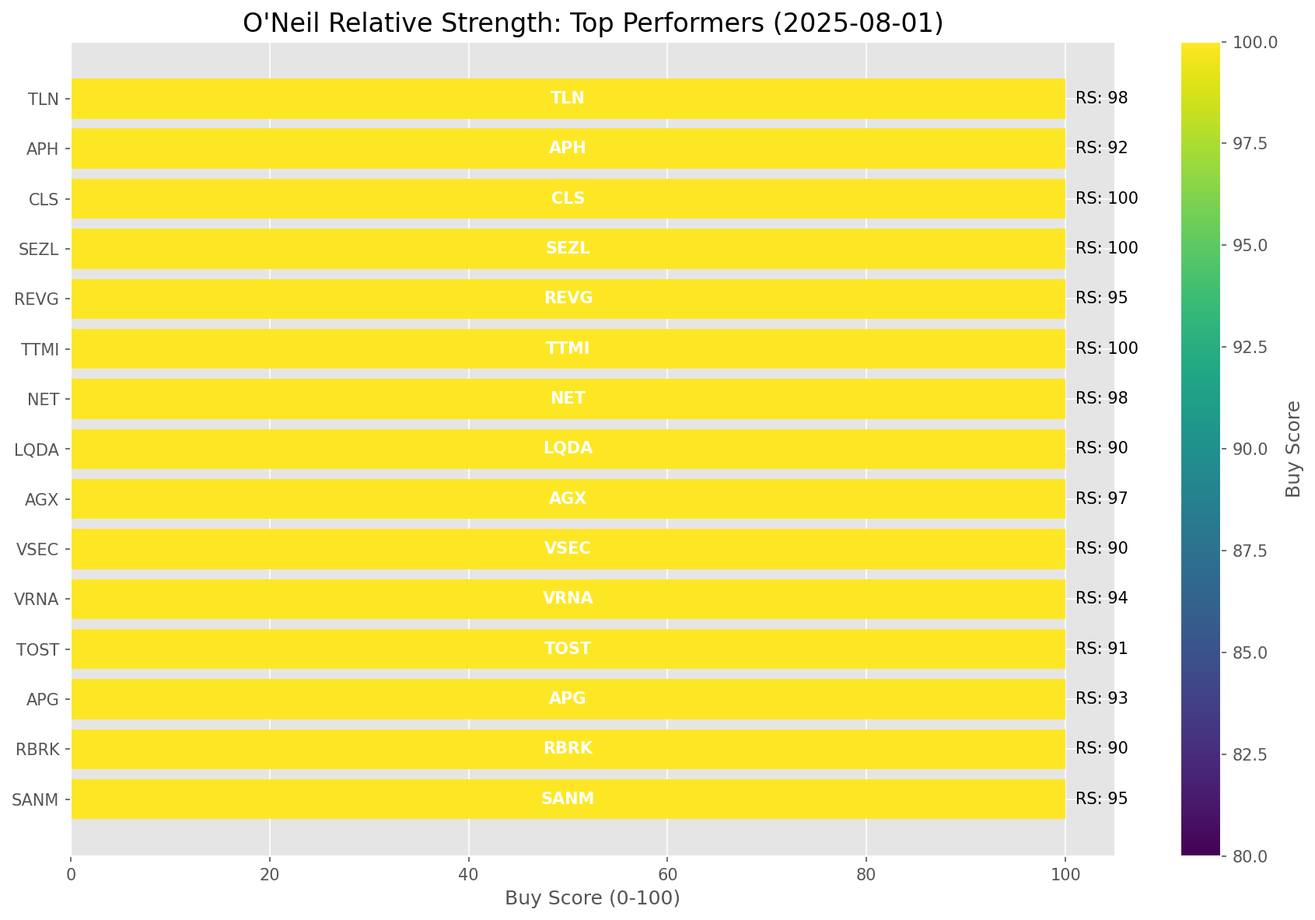
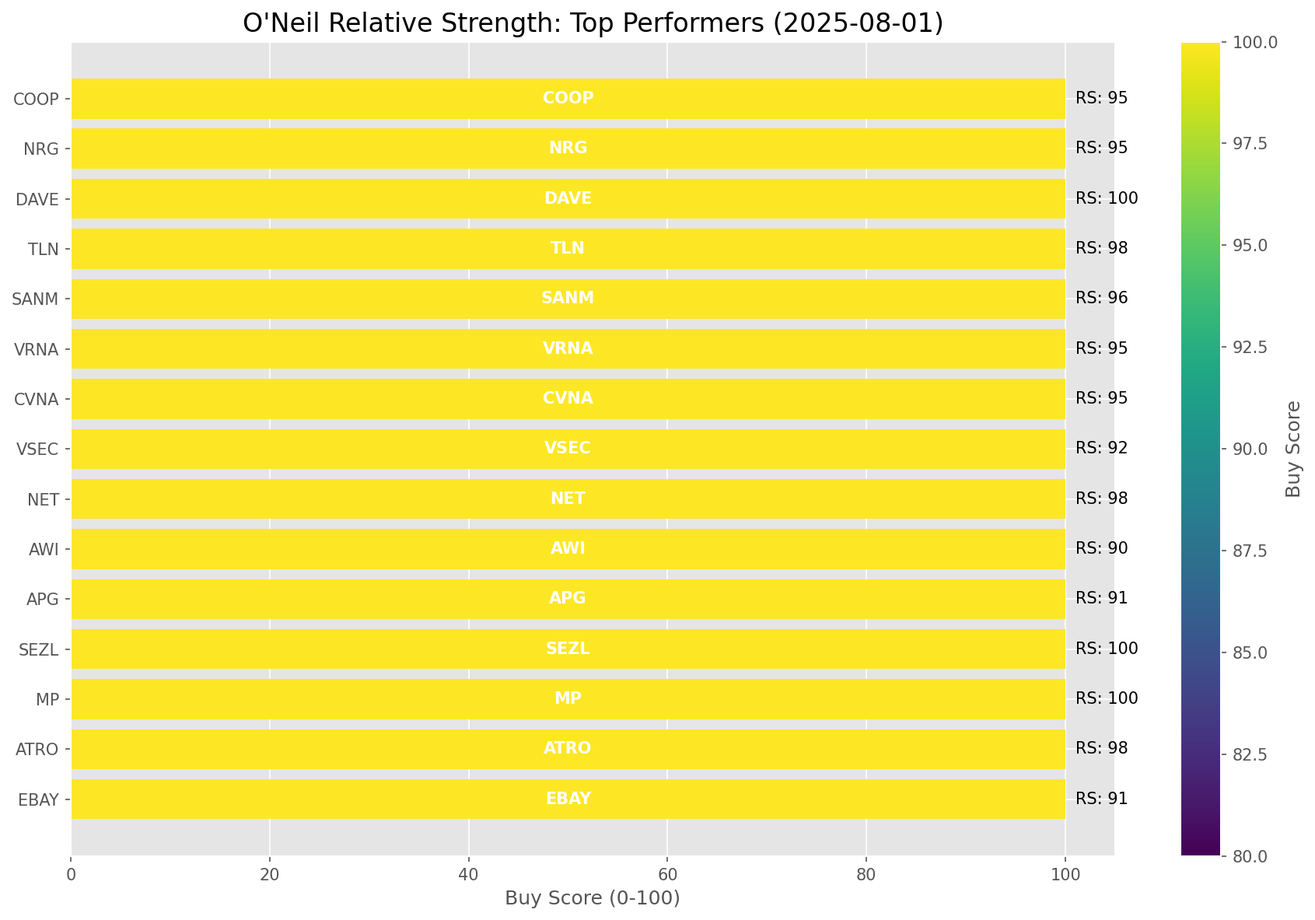
Add market report for 2025-08-01

diff --git a/oneil_relative_strength_report_2025-08-01.md b/oneil_relative_strength_report_2025-08-01.md
@@ -9,11 +9,11 @@
 | Metric | Value |
 |--------|-------|
 | **Market Valuation** | **Overvalued** |
-| **Current Ratio** | 10.25 |
-| **Historical Mean** | 9.52 |
-| **Standard Deviation** | 0.60 |
-| **Z-Score (StdDev from Mean)** | 1.29 |
-| **Total Market Cap** | $310.89 trillion |
+| **Current Ratio** | 10.09 |
+| **Historical Mean** | 9.55 |
+| **Standard Deviation** | 0.59 |
+| **Z-Score (StdDev from Mean)** | 1.20 |
+| **Total Market Cap** | $306.10 trillion |
 | **GDP** | $30.33 trillion |
 
 ## **Market Insights**
@@ -49,41 +49,41 @@ Based on William O'Neil's Relative Strength Methodology
 
 | ETF | Strength | RS Rating | Performance | Above Key MAs | Trend | Sector |
 |-----|----------|-----------|-------------|--------------|-------|--------|
-| [ARKW](https://www.tradingview.com/chart/?symbol=ARKW) | 98.0 | 96.0 | 53.50% | 10d ✓, 50d ✓, 200d ✓ | ↗ | Next Generation Internet |
-| [XLK](https://www.tradingview.com/chart/?symbol=XLK) | 91.5 | 83.0 | 25.13% | 10d ✓, 50d ✓, 200d ✓ | ↗ | Technology |
-| [URA](https://www.tradingview.com/chart/?symbol=URA) | 88.1 | 96.0 | 57.44% | 10d ✗, 50d ✓, 200d ✓ | ↗ | Uranium |
-| [ARKK](https://www.tradingview.com/chart/?symbol=ARKK) | 87.6 | 95.0 | 48.17% | 10d ✗, 50d ✓, 200d ✓ | ↗ | Innovation |
-| [BLOK](https://www.tradingview.com/chart/?symbol=BLOK) | 87.6 | 95.0 | 46.99% | 10d ✗, 50d ✓, 200d ✓ | ↗ | Blockchain & Cryptocurrency |
-| [ARKF](https://www.tradingview.com/chart/?symbol=ARKF) | 87.6 | 95.0 | 48.81% | 10d ✗, 50d ✓, 200d ✓ | ↗ | Fintech Innovation |
-| [XLC](https://www.tradingview.com/chart/?symbol=XLC) | 82.5 | 65.0 | 12.54% | 10d ✓, 50d ✓, 200d ✓ | ↗ | Communications |
-| [JETS](https://www.tradingview.com/chart/?symbol=JETS) | 79.6 | 79.0 | 20.84% | 10d ✗, 50d ✓, 200d ✓ | ↗ | Airlines |
-| [AIQ](https://www.tradingview.com/chart/?symbol=AIQ) | 79.6 | 79.0 | 20.88% | 10d ✗, 50d ✓, 200d ✓ | ↗ | Artificial Intelligence & Technology |
-| [PAVE](https://www.tradingview.com/chart/?symbol=PAVE) | 78.1 | 76.0 | 19.05% | 10d ✗, 50d ✓, 200d ✓ | ↗ | Infrastructure |
-| [XLU](https://www.tradingview.com/chart/?symbol=XLU) | 78.0 | 56.0 | 8.58% | 10d ✓, 50d ✓, 200d ✓ | ↗ | Utilities |
-| [XLI](https://www.tradingview.com/chart/?symbol=XLI) | 75.6 | 71.0 | 15.84% | 10d ✗, 50d ✓, 200d ✓ | ↗ | Industrial |
-| [SLV](https://www.tradingview.com/chart/?symbol=SLV) | 73.1 | 66.0 | 12.57% | 10d ✗, 50d ✓, 200d ✓ | ↗ | Silver |
-| [XLY](https://www.tradingview.com/chart/?symbol=XLY) | 72.6 | 65.0 | 12.25% | 10d ✗, 50d ✓, 200d ✓ | ↗ | Consumer Discretionary |
-| [IYZ](https://www.tradingview.com/chart/?symbol=IYZ) | 70.6 | 61.0 | 10.76% | 10d ✗, 50d ✓, 200d ✓ | ↗ | Telecommunications |
-| [KWEB](https://www.tradingview.com/chart/?symbol=KWEB) | 70.1 | 60.0 | 10.40% | 10d ✗, 50d ✓, 200d ✓ | ↗ | Chinese Internet |
-| [XLF](https://www.tradingview.com/chart/?symbol=XLF) | 66.1 | 52.0 | 7.40% | 10d ✗, 50d ✓, 200d ✓ | ↗ | Financial |
-| [SOXX](https://www.tradingview.com/chart/?symbol=SOXX) | 64.1 | 88.0 | 30.56% | 10d ✗, 50d ✓, 200d ✓ | ↘ | Semiconductors |
-| [CIBR](https://www.tradingview.com/chart/?symbol=CIBR) | 58.7 | 57.0 | 9.24% | 10d ✗, 50d ✗, 200d ✓ | ↗ | Cybersecurity |
-| [ICLN](https://www.tradingview.com/chart/?symbol=ICLN) | 54.1 | 68.0 | 13.93% | 10d ✗, 50d ✓, 200d ✓ | ↘ | Clean Energy |
-| [DBC](https://www.tradingview.com/chart/?symbol=DBC) | 48.6 | 57.0 | 9.14% | 10d ✗, 50d ✓, 200d ✓ | ↘ | Commodities |
-| [XLE](https://www.tradingview.com/chart/?symbol=XLE) | 47.3 | 55.0 | 8.34% | 10d ✓, 50d ✓, 200d ✗ | ↘ | Energy |
-| [BIL](https://www.tradingview.com/chart/?symbol=BIL) | 45.5 | 31.0 | 0.03% | 10d ✓, 50d ✓, 200d ✓ | ↘ | Short-term Treasuries |
-| [GLD](https://www.tradingview.com/chart/?symbol=GLD) | 44.7 | 29.0 | -0.27% | 10d ✗, 50d ✗, 200d ✓ | ↗ | Gold |
-| [IBB](https://www.tradingview.com/chart/?symbol=IBB) | 43.1 | 46.0 | 4.88% | 10d ✗, 50d ✓, 200d ✓ | ↘ | Biotechnology |
-| [UUP](https://www.tradingview.com/chart/?symbol=UUP) | 38.3 | 37.0 | 1.79% | 10d ✓, 50d ✓, 200d ✗ | ↘ | U.S. Dollar |
-| [ITB](https://www.tradingview.com/chart/?symbol=ITB) | 33.9 | 48.0 | 5.78% | 10d ✗, 50d ✓, 200d ✗ | ↘ | Home Construction |
-| [IYT](https://www.tradingview.com/chart/?symbol=IYT) | 32.0 | 64.0 | 11.79% | 10d ✗, 50d ✗, 200d ✗ | ↘ | Transportation |
-| [TLT](https://www.tradingview.com/chart/?symbol=TLT) | 30.3 | 21.0 | -2.85% | 10d ✓, 50d ✓, 200d ✗ | ↘ | Long-term Treasuries |
-| [DBA](https://www.tradingview.com/chart/?symbol=DBA) | 28.5 | 17.0 | -5.09% | 10d ✗, 50d ✗, 200d ✗ | ↗ | Agriculture |
-| [ARKG](https://www.tradingview.com/chart/?symbol=ARKG) | 27.5 | 55.0 | 8.32% | 10d ✗, 50d ✗, 200d ✗ | ↘ | Genomics |
-| [XLB](https://www.tradingview.com/chart/?symbol=XLB) | 22.5 | 45.0 | 4.58% | 10d ✗, 50d ✗, 200d ✗ | ↘ | Materials |
-| [IYR](https://www.tradingview.com/chart/?symbol=IYR) | 18.0 | 36.0 | 1.27% | 10d ✗, 50d ✗, 200d ✗ | ↘ | Real Estate |
-| [XLP](https://www.tradingview.com/chart/?symbol=XLP) | 11.0 | 22.0 | -2.51% | 10d ✗, 50d ✗, 200d ✗ | ↘ | Consumer Staples |
-| [XLV](https://www.tradingview.com/chart/?symbol=XLV) | 7.0 | 14.0 | -7.15% | 10d ✗, 50d ✗, 200d ✗ | ↘ | Healthcare |
+| [URA](https://www.tradingview.com/chart/?symbol=URA) | 88.1 | 96.0 | 49.51% | 10d ✗, 50d ✓, 200d ✓ | ↗ | Uranium |
+| [ARKW](https://www.tradingview.com/chart/?symbol=ARKW) | 87.6 | 95.0 | 45.55% | 10d ✗, 50d ✓, 200d ✓ | ↗ | Next Generation Internet |
+| [ARKF](https://www.tradingview.com/chart/?symbol=ARKF) | 87.1 | 94.0 | 41.36% | 10d ✗, 50d ✓, 200d ✓ | ↗ | Fintech Innovation |
+| [ARKK](https://www.tradingview.com/chart/?symbol=ARKK) | 87.1 | 94.0 | 40.75% | 10d ✗, 50d ✓, 200d ✓ | ↗ | Innovation |
+| [BLOK](https://www.tradingview.com/chart/?symbol=BLOK) | 86.6 | 93.0 | 37.84% | 10d ✗, 50d ✓, 200d ✓ | ↗ | Blockchain & Cryptocurrency |
+| [XLK](https://www.tradingview.com/chart/?symbol=XLK) | 80.6 | 81.0 | 20.81% | 10d ✗, 50d ✓, 200d ✓ | ↗ | Technology |
+| [XLU](https://www.tradingview.com/chart/?symbol=XLU) | 78.5 | 57.0 | 7.91% | 10d ✓, 50d ✓, 200d ✓ | ↗ | Utilities |
+| [AIQ](https://www.tradingview.com/chart/?symbol=AIQ) | 78.1 | 76.0 | 17.03% | 10d ✗, 50d ✓, 200d ✓ | ↗ | Artificial Intelligence & Technology |
+| [PAVE](https://www.tradingview.com/chart/?symbol=PAVE) | 76.6 | 73.0 | 14.86% | 10d ✗, 50d ✓, 200d ✓ | ↗ | Infrastructure |
+| [SLV](https://www.tradingview.com/chart/?symbol=SLV) | 75.6 | 71.0 | 14.32% | 10d ✗, 50d ✓, 200d ✓ | ↗ | Silver |
+| [XLI](https://www.tradingview.com/chart/?symbol=XLI) | 74.1 | 68.0 | 12.68% | 10d ✗, 50d ✓, 200d ✓ | ↗ | Industrial |
+| [GLD](https://www.tradingview.com/chart/?symbol=GLD) | 72.5 | 45.0 | 3.67% | 10d ✓, 50d ✓, 200d ✓ | ↗ | Gold |
+| [XLC](https://www.tradingview.com/chart/?symbol=XLC) | 72.1 | 64.0 | 10.59% | 10d ✗, 50d ✓, 200d ✓ | ↗ | Communications |
+| [IYZ](https://www.tradingview.com/chart/?symbol=IYZ) | 69.6 | 59.0 | 8.46% | 10d ✗, 50d ✓, 200d ✓ | ↗ | Telecommunications |
+| [SOXX](https://www.tradingview.com/chart/?symbol=SOXX) | 64.1 | 88.0 | 27.76% | 10d ✗, 50d ✓, 200d ✓ | ↘ | Semiconductors |
+| [XLY](https://www.tradingview.com/chart/?symbol=XLY) | 60.2 | 60.0 | 9.06% | 10d ✗, 50d ✗, 200d ✓ | ↗ | Consumer Discretionary |
+| [KWEB](https://www.tradingview.com/chart/?symbol=KWEB) | 57.2 | 54.0 | 7.06% | 10d ✗, 50d ✗, 200d ✓ | ↗ | Chinese Internet |
+| [CIBR](https://www.tradingview.com/chart/?symbol=CIBR) | 57.2 | 54.0 | 6.87% | 10d ✗, 50d ✗, 200d ✓ | ↗ | Cybersecurity |
+| [JETS](https://www.tradingview.com/chart/?symbol=JETS) | 57.0 | 74.0 | 15.75% | 10d ✗, 50d ✗, 200d ✗ | ↗ | Airlines |
+| [ICLN](https://www.tradingview.com/chart/?symbol=ICLN) | 56.6 | 73.0 | 15.33% | 10d ✗, 50d ✓, 200d ✓ | ↘ | Clean Energy |
+| [XLF](https://www.tradingview.com/chart/?symbol=XLF) | 54.7 | 49.0 | 5.14% | 10d ✗, 50d ✗, 200d ✓ | ↗ | Financial |
+| [DBC](https://www.tradingview.com/chart/?symbol=DBC) | 47.6 | 55.0 | 7.45% | 10d ✗, 50d ✓, 200d ✓ | ↘ | Commodities |
+| [ITB](https://www.tradingview.com/chart/?symbol=ITB) | 38.4 | 57.0 | 8.05% | 10d ✗, 50d ✓, 200d ✗ | ↘ | Home Construction |
+| [IBB](https://www.tradingview.com/chart/?symbol=IBB) | 34.9 | 50.0 | 5.28% | 10d ✗, 50d ✓, 200d ✗ | ↘ | Biotechnology |
+| [UUP](https://www.tradingview.com/chart/?symbol=UUP) | 34.8 | 30.0 | 0.04% | 10d ✓, 50d ✓, 200d ✗ | ↘ | U.S. Dollar |
+| [TLT](https://www.tradingview.com/chart/?symbol=TLT) | 32.8 | 26.0 | -0.99% | 10d ✓, 50d ✓, 200d ✗ | ↘ | Long-term Treasuries |
+| [IYT](https://www.tradingview.com/chart/?symbol=IYT) | 30.5 | 61.0 | 9.58% | 10d ✗, 50d ✗, 200d ✗ | ↘ | Transportation |
+| [DBA](https://www.tradingview.com/chart/?symbol=DBA) | 29.0 | 18.0 | -5.09% | 10d ✗, 50d ✗, 200d ✗ | ↗ | Agriculture |
+| [ARKG](https://www.tradingview.com/chart/?symbol=ARKG) | 28.0 | 56.0 | 7.63% | 10d ✗, 50d ✗, 200d ✗ | ↘ | Genomics |
+| [XLE](https://www.tradingview.com/chart/?symbol=XLE) | 25.5 | 51.0 | 5.99% | 10d ✗, 50d ✗, 200d ✗ | ↘ | Energy |
+| [XLB](https://www.tradingview.com/chart/?symbol=XLB) | 22.0 | 44.0 | 3.33% | 10d ✗, 50d ✗, 200d ✗ | ↘ | Materials |
+| [IYR](https://www.tradingview.com/chart/?symbol=IYR) | 18.0 | 36.0 | 1.08% | 10d ✗, 50d ✗, 200d ✗ | ↘ | Real Estate |
+| [BIL](https://www.tradingview.com/chart/?symbol=BIL) | 15.0 | 30.0 | 0.04% | 10d ✗, 50d ✗, 200d ✗ | ↘ | Short-term Treasuries |
+| [XLP](https://www.tradingview.com/chart/?symbol=XLP) | 13.0 | 26.0 | -1.11% | 10d ✗, 50d ✗, 200d ✗ | ↘ | Consumer Staples |
+| [XLV](https://www.tradingview.com/chart/?symbol=XLV) | 9.5 | 19.0 | -4.62% | 10d ✗, 50d ✗, 200d ✗ | ↘ | Healthcare |
 
 ### **Sector ETF Performance Interpretation**
 
@@ -98,157 +98,169 @@ This table shows the relative strength metrics for different market sectors base
 
 ### **Current Sector Leadership**
 
-The current market leadership is coming from the following sectors: **Next Generation Internet, Technology, Uranium**.
+The current market leadership is coming from the following sectors: **Uranium, Next Generation Internet, Fintech Innovation**.
 
-The **Next Generation Internet** sector (represented by **ARKW**) is showing particularly strong relative strength with an RS rating of 96.0 and performance of 53.50% vs. the S&P 500. This sector is trading above its 10-day, 50-day, 200-day moving average(s). Investors should consider focusing on high RS stocks within these leading sectors for potential outperformance.
+The **Uranium** sector (represented by **URA**) is showing particularly strong relative strength with an RS rating of 96.0 and performance of 49.51% vs. the S&P 500. This sector is trading above its 50-day, 200-day moving average(s). Investors should consider focusing on high RS stocks within these leading sectors for potential outperformance.
 
 ---
 
 ## **Buy Recommendations**
 
-The following 55 stocks show exceptional relative strength:
+The following 37 stocks show exceptional relative strength:
 
 | RS Rating | Buy Score | Current Price | Chart | Name | Ticker |
 |-----------|-----------|---------------|-------|------|--------|
-| 100 | 100 | $47.25 | [Chart](https://www.tradingview.com/chart/?symbol=TTMI) | TTM Technologies Inc | TTMI |
-| 100 | 100 | $154.84 | [Chart](https://www.tradingview.com/chart/?symbol=SEZL) | Sezzle Inc. Common Stock | SEZL |
-| 100 | 100 | $199.86 | [Chart](https://www.tradingview.com/chart/?symbol=CLS) | Celestica, Inc. | CLS |
-| 100 | 100 | $61.50 | [Chart](https://www.tradingview.com/chart/?symbol=MP) | MP Materials Corp. | MP |
-| 100 | 100 | $235.80 | [Chart](https://www.tradingview.com/chart/?symbol=DAVE) | Dave Inc. Class A Common Stock | DAVE |
-| 99 | 100 | $137.79 | [Chart](https://www.tradingview.com/chart/?symbol=RBLX) | Roblox Corporation | RBLX |
-| 99 | 100 | $66.18 | [Chart](https://www.tradingview.com/chart/?symbol=HIMS) | Hims & Hers Health, Inc. | HIMS |
-| 98 | 100 | $207.68 | [Chart](https://www.tradingview.com/chart/?symbol=NET) | Cloudflare, Inc. Class A common stock, par value $0.001 per share | NET |
-| 98 | 100 | $377.57 | [Chart](https://www.tradingview.com/chart/?symbol=TLN) | Talen Energy Corporation Common Stock | TLN |
-| 98 | 100 | $76.59 | [Chart](https://www.tradingview.com/chart/?symbol=LIF) | Life360, Inc. Common Stock | LIF |
-| 98 | 100 | $58.70 | [Chart](https://www.tradingview.com/chart/?symbol=KTOS) | Kratos Defense & Security Solutions, Inc. | KTOS |
-| 98 | 100 | $660.29 | [Chart](https://www.tradingview.com/chart/?symbol=GEV) | GE Vernova Inc. | GEV |
-| 97 | 100 | $244.98 | [Chart](https://www.tradingview.com/chart/?symbol=AGX) | Argan, Inc | AGX |
-| 97 | 100 | $390.17 | [Chart](https://www.tradingview.com/chart/?symbol=CVNA) | Carvana Co. | CVNA |
-| 97 | 100 | $36.12 | [Chart](https://www.tradingview.com/chart/?symbol=ATRO) | Astronics Corp | ATRO |
-| 97 | 100 | $24.10 | [Chart](https://www.tradingview.com/chart/?symbol=CPS) | Cooper-Standard Automotive Inc. | CPS |
-| 96 | 100 | $167.20 | [Chart](https://www.tradingview.com/chart/?symbol=NRG) | NRG Energy, Inc. | NRG |
-| 96 | 100 | $65.56 | [Chart](https://www.tradingview.com/chart/?symbol=IBKR) | Interactive Brokers Group, Inc. Class A Common Stock | IBKR |
-| 96 | 100 | $157.97 | [Chart](https://www.tradingview.com/chart/?symbol=ARKW) | ARK Next Generation Internet ETF | ARKW |
-| 95 | 100 | $116.04 | [Chart](https://www.tradingview.com/chart/?symbol=SANM) | Sanmina  Corp | SANM |
-| 95 | 100 | $49.55 | [Chart](https://www.tradingview.com/chart/?symbol=REVG) | REV Group, Inc. | REVG |
-| 94 | 100 | $105.09 | [Chart](https://www.tradingview.com/chart/?symbol=VRNA) | Verona Pharma plc | VRNA |
-| 94 | 100 | $390.70 | [Chart](https://www.tradingview.com/chart/?symbol=APP) | Applovin Corporation Class A Common Stock | APP |
-| 94 | 100 | $54.90 | [Chart](https://www.tradingview.com/chart/?symbol=INOD) | Innodata Inc. | INOD |
-| 94 | 100 | $137.00 | [Chart](https://www.tradingview.com/chart/?symbol=LMB) | Limbach Holdings, Inc Common Stock | LMB |
-| 94 | 100 | $58.72 | [Chart](https://www.tradingview.com/chart/?symbol=VIK) | Viking Holdings Ltd | VIK |
-| 93 | 100 | $36.07 | [Chart](https://www.tradingview.com/chart/?symbol=APG) | APi Group Corporation | APG |
-| 93 | 100 | $22.35 | [Chart](https://www.tradingview.com/chart/?symbol=MIR) | Mirion Technologies, Inc. | MIR |
-| 92 | 100 | $106.51 | [Chart](https://www.tradingview.com/chart/?symbol=APH) | Amphenol Corporation | APH |
-| 91 | 100 | $48.84 | [Chart](https://www.tradingview.com/chart/?symbol=TOST) | Toast, Inc. | TOST |
-| 91 | 100 | $43.39 | [Chart](https://www.tradingview.com/chart/?symbol=LTM) | LATAM Airlines Group S.A. American Depositary Shares (each representing two thousand (2,000) shares of Common Stock) | LTM |
-| 90 | 100 | $94.95 | [Chart](https://www.tradingview.com/chart/?symbol=RBRK) | Rubrik, Inc. | RBRK |
-| 90 | 100 | $156.54 | [Chart](https://www.tradingview.com/chart/?symbol=VSEC) | VSE Corp | VSEC |
-| 90 | 100 | $18.69 | [Chart](https://www.tradingview.com/chart/?symbol=LQDA) | Liquidia Corporation Common Stock | LQDA |
-| 90 | 100 | $158.35 | [Chart](https://www.tradingview.com/chart/?symbol=PLTR) | Palantir Technologies Inc. Class A Common Stock | PLTR |
-| 90 | 100 | $91.75 | [Chart](https://www.tradingview.com/chart/?symbol=EBAY) | eBay Inc | EBAY |
-| 90 | 100 | $271.08 | [Chart](https://www.tradingview.com/chart/?symbol=GE) | GE Aerospace | GE |
-| 90 | 100 | $82.94 | [Chart](https://www.tradingview.com/chart/?symbol=TPB) | Turning Point Brands, Inc. | TPB |
-| 85 | 99 | $29.57 | [Chart](https://www.tradingview.com/chart/?symbol=SRAD) | Sportradar Group AG Class A Ordinary Shares | SRAD |
-| 87 | 98 | $62.27 | [Chart](https://www.tradingview.com/chart/?symbol=RYAAY) | Ryanair Holdings plc American Depositary Shares | RYAAY |
-| 86 | 98 | $43.41 | [Chart](https://www.tradingview.com/chart/?symbol=FROG) | JFrog Ltd. Ordinary Shares | FROG |
-| 87 | 97 | $188.17 | [Chart](https://www.tradingview.com/chart/?symbol=AWI) | Armstrong World Industries, Inc. | AWI |
-| 84 | 97 | $32.98 | [Chart](https://www.tradingview.com/chart/?symbol=DB) | Deutsche Bank Aktiengesellschaft | DB |
-| 85 | 96 | $73.12 | [Chart](https://www.tradingview.com/chart/?symbol=ULS) | UL Solutions Inc. | ULS |
-| 84 | 96 | $101.45 | [Chart](https://www.tradingview.com/chart/?symbol=BK) | Bank of New York Mellon Corporation | BK |
-| 83 | 96 | $57.58 | [Chart](https://www.tradingview.com/chart/?symbol=ERJ) | Embraer S.A. | ERJ |
-| 85 | 95 | $262.32 | [Chart](https://www.tradingview.com/chart/?symbol=WTS) | Watts Water Technologies, Inc. Class A | WTS |
-| 84 | 94 | $96.22 | [Chart](https://www.tradingview.com/chart/?symbol=NDAQ) | Nasdaq, Inc. Common Stock | NDAQ |
-| 83 | 94 | $196.60 | [Chart](https://www.tradingview.com/chart/?symbol=ITA) | iShares U.S. Aerospace & Defense ETF | ITA |
-| 80 | 94 | $19.62 | [Chart](https://www.tradingview.com/chart/?symbol=BCS) | Barclays PLC | BCS |
-| 81 | 93 | $53.68 | [Chart](https://www.tradingview.com/chart/?symbol=BTI) | British American Tobacco p.l.c. American Depositary Shares, American Depositary Shares, each representing one Ordinary Share | BTI |
-| 81 | 93 | $395.73 | [Chart](https://www.tradingview.com/chart/?symbol=LPLA) | LPL Financial Holdings Inc. | LPLA |
-| 81 | 92 | $47.27 | [Chart](https://www.tradingview.com/chart/?symbol=BBIO) | BridgeBio Pharma, Inc. Common Stock | BBIO |
-| 80 | 90 | $49.57 | [Chart](https://www.tradingview.com/chart/?symbol=FHI) | Federated Hermes, Inc. | FHI |
-| 80 | 90 | $115.69 | [Chart](https://www.tradingview.com/chart/?symbol=SPMO) | Invesco S&P 500 Momentum ETF | SPMO |
+| 100 | 100 | $63.28 | [Chart](https://www.tradingview.com/chart/?symbol=MP) | MP Materials Corp. | MP |
+| 100 | 100 | $146.64 | [Chart](https://www.tradingview.com/chart/?symbol=SEZL) | Sezzle Inc. Common Stock | SEZL |
+| 100 | 100 | $227.25 | [Chart](https://www.tradingview.com/chart/?symbol=DAVE) | Dave Inc. Class A Common Stock | DAVE |
+| 100 | 100 | $194.38 | [Chart](https://www.tradingview.com/chart/?symbol=CLS) | Celestica, Inc. | CLS |
+| 100 | 100 | $29.12 | [Chart](https://www.tradingview.com/chart/?symbol=CPS) | Cooper-Standard Automotive Inc. | CPS |
+| 99 | 100 | $648.30 | [Chart](https://www.tradingview.com/chart/?symbol=GEV) | GE Vernova Inc. | GEV |
+| 99 | 100 | $129.61 | [Chart](https://www.tradingview.com/chart/?symbol=RBLX) | Roblox Corporation | RBLX |
+| 99 | 100 | $64.22 | [Chart](https://www.tradingview.com/chart/?symbol=HIMS) | Hims & Hers Health, Inc. | HIMS |
+| 98 | 100 | $36.12 | [Chart](https://www.tradingview.com/chart/?symbol=ATRO) | Astronics Corp | ATRO |
+| 98 | 100 | $203.61 | [Chart](https://www.tradingview.com/chart/?symbol=NET) | Cloudflare, Inc. Class A common stock, par value $0.001 per share | NET |
+| 98 | 100 | $370.49 | [Chart](https://www.tradingview.com/chart/?symbol=TLN) | Talen Energy Corporation Common Stock | TLN |
+| 96 | 100 | $116.04 | [Chart](https://www.tradingview.com/chart/?symbol=SANM) | Sanmina  Corp | SANM |
+| 95 | 100 | $369.12 | [Chart](https://www.tradingview.com/chart/?symbol=CVNA) | Carvana Co. | CVNA |
+| 95 | 100 | $105.22 | [Chart](https://www.tradingview.com/chart/?symbol=VRNA) | Verona Pharma plc | VRNA |
+| 95 | 100 | $163.71 | [Chart](https://www.tradingview.com/chart/?symbol=NRG) | NRG Energy, Inc. | NRG |
+| 95 | 100 | $175.21 | [Chart](https://www.tradingview.com/chart/?symbol=COOP) | Mr. Cooper Group Inc. Common Stock | COOP |
+| 95 | 100 | $137.00 | [Chart](https://www.tradingview.com/chart/?symbol=LMB) | Limbach Holdings, Inc Common Stock | LMB |
+| 93 | 100 | $43.39 | [Chart](https://www.tradingview.com/chart/?symbol=LTM) | LATAM Airlines Group S.A. American Depositary Shares (each representing two thousand (2,000) shares of Common Stock) | LTM |
+| 92 | 100 | $156.54 | [Chart](https://www.tradingview.com/chart/?symbol=VSEC) | VSE Corp | VSEC |
+| 92 | 100 | $379.34 | [Chart](https://www.tradingview.com/chart/?symbol=APP) | Applovin Corporation Class A Common Stock | APP |
+| 92 | 100 | $18.63 | [Chart](https://www.tradingview.com/chart/?symbol=LQDA) | Liquidia Corporation Common Stock | LQDA |
+| 92 | 100 | $82.94 | [Chart](https://www.tradingview.com/chart/?symbol=TPB) | Turning Point Brands, Inc. | TPB |
+| 91 | 100 | $89.64 | [Chart](https://www.tradingview.com/chart/?symbol=EBAY) | eBay Inc | EBAY |
+| 91 | 100 | $35.34 | [Chart](https://www.tradingview.com/chart/?symbol=APG) | APi Group Corporation | APG |
+| 90 | 100 | $188.17 | [Chart](https://www.tradingview.com/chart/?symbol=AWI) | Armstrong World Industries, Inc. | AWI |
+| 88 | 98 | $262.32 | [Chart](https://www.tradingview.com/chart/?symbol=WTS) | Watts Water Technologies, Inc. Class A | WTS |
+| 86 | 98 | $54.47 | [Chart](https://www.tradingview.com/chart/?symbol=BTI) | British American Tobacco p.l.c. American Depositary Shares, American Depositary Shares, each representing one Ordinary Share | BTI |
+| 85 | 98 | $56.77 | [Chart](https://www.tradingview.com/chart/?symbol=ERJ) | Embraer S.A. | ERJ |
+| 84 | 98 | $28.98 | [Chart](https://www.tradingview.com/chart/?symbol=SRAD) | Sportradar Group AG Class A Ordinary Shares | SRAD |
+| 84 | 96 | $47.25 | [Chart](https://www.tradingview.com/chart/?symbol=BBIO) | BridgeBio Pharma, Inc. Common Stock | BBIO |
+| 83 | 96 | $32.48 | [Chart](https://www.tradingview.com/chart/?symbol=DB) | Deutsche Bank Aktiengesellschaft | DB |
+| 83 | 96 | $39.01 | [Chart](https://www.tradingview.com/chart/?symbol=AHR) | American Healthcare REIT, Inc. | AHR |
+| 85 | 95 | $94.30 | [Chart](https://www.tradingview.com/chart/?symbol=NDAQ) | Nasdaq, Inc. Common Stock | NDAQ |
+| 84 | 94 | $48.58 | [Chart](https://www.tradingview.com/chart/?symbol=INOD) | Innodata Inc. | INOD |
+| 83 | 94 | $71.24 | [Chart](https://www.tradingview.com/chart/?symbol=ULS) | UL Solutions Inc. | ULS |
+| 81 | 94 | $68.56 | [Chart](https://www.tradingview.com/chart/?symbol=CHEF) | The Chef's Warehouse Inc | CHEF |
+| 80 | 90 | $112.29 | [Chart](https://www.tradingview.com/chart/?symbol=SXT) | Sensient Technology Corporation | SXT |
 
 ---
 
 
 ## **Sell Recommendations**
 
-The following 74 stocks show deteriorating relative strength:
+The following 104 stocks show deteriorating relative strength:
 
 | RS Rating | Sell Score | Current Price | Chart | Name | Ticker |
 |-----------|------------|---------------|-------|------|--------|
-| 1 | 100 | $12.04 | [Chart](https://www.tradingview.com/chart/?symbol=NVDS) | Investment Managers Series Trust II Tradr 1.5X Short NVDA Daily ETF | NVDS |
-| 1 | 100 | $24.18 | [Chart](https://www.tradingview.com/chart/?symbol=TECS) | Direxion Daily Technology Bear 3x Shares | TECS |
-| 2 | 100 | $13.98 | [Chart](https://www.tradingview.com/chart/?symbol=CLBT) | Cellebrite DI Ltd. Class A Ordinary Shares | CLBT |
-| 2 | 100 | $71.19 | [Chart](https://www.tradingview.com/chart/?symbol=LNTH) | Lantheus Holdings, Inc | LNTH |
-| 2 | 100 | $12.29 | [Chart](https://www.tradingview.com/chart/?symbol=CDNA) | CareDx, Inc. | CDNA |
-| 3 | 100 | $41.60 | [Chart](https://www.tradingview.com/chart/?symbol=SDOW) | ProShares UltraPro Short Dow 30 | SDOW |
+| 1 | 100 | $12.43 | [Chart](https://www.tradingview.com/chart/?symbol=NVDS) | Investment Managers Series Trust II Tradr 1.5X Short NVDA Daily ETF | NVDS |
+| 1 | 100 | $13.64 | [Chart](https://www.tradingview.com/chart/?symbol=CLBT) | Cellebrite DI Ltd. Class A Ordinary Shares | CLBT |
+| 1 | 100 | $71.19 | [Chart](https://www.tradingview.com/chart/?symbol=LNTH) | Lantheus Holdings, Inc | LNTH |
+| 2 | 100 | $62.07 | [Chart](https://www.tradingview.com/chart/?symbol=SKY) | Champion Homes, Inc. | SKY |
+| 2 | 100 | $51.97 | [Chart](https://www.tradingview.com/chart/?symbol=GMED) | GLOBUS MEDICAL INC | GMED |
+| 3 | 100 | $21.21 | [Chart](https://www.tradingview.com/chart/?symbol=HELE) | Helen Of Troy Ltd | HELE |
 | 3 | 100 | $15.15 | [Chart](https://www.tradingview.com/chart/?symbol=CSTL) | Castle Biosciences, Inc. Common Stock | CSTL |
+| 3 | 100 | $24.48 | [Chart](https://www.tradingview.com/chart/?symbol=ZSL) | ProShares UltraShort Silver | ZSL |
+| 3 | 100 | $23.94 | [Chart](https://www.tradingview.com/chart/?symbol=DUST) | Direxion Daily Gold Miners Index Bear 2X Shares | DUST |
 | 3 | 100 | $36.35 | [Chart](https://www.tradingview.com/chart/?symbol=IBTA) | Ibotta, Inc. | IBTA |
 | 3 | 100 | $15.45 | [Chart](https://www.tradingview.com/chart/?symbol=TVTX) | Travere Therapeutics, Inc. Common Stock | TVTX |
+| 5 | 100 | $43.45 | [Chart](https://www.tradingview.com/chart/?symbol=SDOW) | ProShares UltraPro Short Dow 30 | SDOW |
+| 5 | 100 | $12.07 | [Chart](https://www.tradingview.com/chart/?symbol=CDNA) | CareDx, Inc. | CDNA |
 | 6 | 100 | $10.37 | [Chart](https://www.tradingview.com/chart/?symbol=OEC) | Orion S.A. | OEC |
 | 6 | 100 | $20.72 | [Chart](https://www.tradingview.com/chart/?symbol=KIDS) | OrthoPediatrics Corp. Common Stock | KIDS |
-| 6 | 100 | $10.60 | [Chart](https://www.tradingview.com/chart/?symbol=ARDT) | Ardent Health, Inc. | ARDT |
+| 6 | 100 | $10.39 | [Chart](https://www.tradingview.com/chart/?symbol=ARDT) | Ardent Health, Inc. | ARDT |
+| 7 | 100 | $18.86 | [Chart](https://www.tradingview.com/chart/?symbol=GAP) | The Gap, Inc. | GAP |
 | 7 | 100 | $20.95 | [Chart](https://www.tradingview.com/chart/?symbol=AMPH) | Amphastar Pharmaceuticals, Inc. | AMPH |
-| 8 | 100 | $21.28 | [Chart](https://www.tradingview.com/chart/?symbol=AMRK) | A-Mark Precious Metals, Inc. | AMRK |
-| 9 | 100 | $12.53 | [Chart](https://www.tradingview.com/chart/?symbol=BSM) | Black Stone Minerals, L.P. | BSM |
+| 8 | 100 | $12.46 | [Chart](https://www.tradingview.com/chart/?symbol=BSM) | Black Stone Minerals, L.P. | BSM |
+| 9 | 100 | $31.66 | [Chart](https://www.tradingview.com/chart/?symbol=GLBE) | Global-E Online Ltd. Ordinary Shares | GLBE |
+| 9 | 100 | $21.28 | [Chart](https://www.tradingview.com/chart/?symbol=AMRK) | A-Mark Precious Metals, Inc. | AMRK |
 | 11 | 100 | $54.34 | [Chart](https://www.tradingview.com/chart/?symbol=HRB) | H&R Block, Inc. | HRB |
-| 11 | 100 | $52.61 | [Chart](https://www.tradingview.com/chart/?symbol=AMWD) | American Woodmark Corp | AMWD |
-| 13 | 100 | $15.11 | [Chart](https://www.tradingview.com/chart/?symbol=FIHL) | Fidelis Insurance Holdings Limited | FIHL |
-| 13 | 100 | $69.86 | [Chart](https://www.tradingview.com/chart/?symbol=NHI) | National Health Investors | NHI |
-| 5 | 99 | $16.47 | [Chart](https://www.tradingview.com/chart/?symbol=BTAL) | AGF U.S. Market Neutral Anti-Beta Fund | BTAL |
+| 14 | 100 | $15.11 | [Chart](https://www.tradingview.com/chart/?symbol=FIHL) | Fidelis Insurance Holdings Limited | FIHL |
 | 6 | 99 | $15.02 | [Chart](https://www.tradingview.com/chart/?symbol=PLSE) | Pulse Biosciences, Inc Common Stock (DE) | PLSE |
-| 8 | 99 | $10.18 | [Chart](https://www.tradingview.com/chart/?symbol=IMXI) | International Money Express, Inc. | IMXI |
 | 9 | 99 | $21.57 | [Chart](https://www.tradingview.com/chart/?symbol=ERY) | Direxion Daily Energy Bear 2X Shares | ERY |
+| 12 | 99 | $52.61 | [Chart](https://www.tradingview.com/chart/?symbol=AMWD) | American Woodmark Corp | AMWD |
 | 13 | 99 | $16.28 | [Chart](https://www.tradingview.com/chart/?symbol=UMH) | UMH Properties, Inc. | UMH |
-| 10 | 97 | $18.34 | [Chart](https://www.tradingview.com/chart/?symbol=AMN) | AMN Healthcare Services | AMN |
+| 14 | 99 | $69.86 | [Chart](https://www.tradingview.com/chart/?symbol=NHI) | National Health Investors | NHI |
+| 7 | 98 | $16.88 | [Chart](https://www.tradingview.com/chart/?symbol=BTAL) | AGF U.S. Market Neutral Anti-Beta Fund | BTAL |
+| 8 | 98 | $52.08 | [Chart](https://www.tradingview.com/chart/?symbol=TSN) | Tyson Foods, Inc. | TSN |
+| 9 | 98 | $10.18 | [Chart](https://www.tradingview.com/chart/?symbol=IMXI) | International Money Express, Inc. | IMXI |
 | 16 | 97 | $128.41 | [Chart](https://www.tradingview.com/chart/?symbol=ICUI) | ICU Medical Inc | ICUI |
-| 9 | 96 | $19.46 | [Chart](https://www.tradingview.com/chart/?symbol=GAP) | The Gap, Inc. | GAP |
-| 11 | 96 | $274.70 | [Chart](https://www.tradingview.com/chart/?symbol=UTHR) | United Therapeutics Corp | UTHR |
+| 11 | 96 | $18.34 | [Chart](https://www.tradingview.com/chart/?symbol=AMN) | AMN Healthcare Services | AMN |
+| 5 | 95 | $32.60 | [Chart](https://www.tradingview.com/chart/?symbol=VERX) | Vertex, Inc. Class A Common Stock | VERX |
 | 12 | 95 | $10.39 | [Chart](https://www.tradingview.com/chart/?symbol=SD) | SandRidge Energy, Inc. | SD |
-| 9 | 94 | $39.05 | [Chart](https://www.tradingview.com/chart/?symbol=SH) | ProShares Short S&P500 | SH |
 | 9 | 94 | $21.26 | [Chart](https://www.tradingview.com/chart/?symbol=BLFS) | BioLife Solutions Inc. | BLFS |
-| 19 | 94 | $13.83 | [Chart](https://www.tradingview.com/chart/?symbol=OCSL) | Oaktree Specialty Lending Corporation | OCSL |
-| 12 | 93 | $35.97 | [Chart](https://www.tradingview.com/chart/?symbol=LZB) | La-Z-Boy Incorporated | LZB |
+| 17 | 94 | $17.35 | [Chart](https://www.tradingview.com/chart/?symbol=STAA) | Staar Surgical Co | STAA |
+| 11 | 93 | $39.67 | [Chart](https://www.tradingview.com/chart/?symbol=SH) | ProShares Short S&P500 | SH |
 | 15 | 93 | $19.51 | [Chart](https://www.tradingview.com/chart/?symbol=AVBP) | ArriVent BioPharma, Inc. Common Stock | AVBP |
-| 16 | 93 | $15.98 | [Chart](https://www.tradingview.com/chart/?symbol=MLNK) | MeridianLink, Inc. | MLNK |
-| 18 | 93 | $21.45 | [Chart](https://www.tradingview.com/chart/?symbol=TUA) | Simplify Short Term Treasury Futures Strategy ETF | TUA |
-| 14 | 92 | $10.41 | [Chart](https://www.tradingview.com/chart/?symbol=ACIC) | American Coastal Insurance Corporation Common Stock | ACIC |
-| 14 | 91 | $13.15 | [Chart](https://www.tradingview.com/chart/?symbol=GOOD) | Gladstone Commercial Corporation - REIT | GOOD |
+| 19 | 93 | $10.95 | [Chart](https://www.tradingview.com/chart/?symbol=MBC) | MasterBrand, Inc. | MBC |
+| 13 | 92 | $35.97 | [Chart](https://www.tradingview.com/chart/?symbol=LZB) | La-Z-Boy Incorporated | LZB |
+| 17 | 92 | $15.98 | [Chart](https://www.tradingview.com/chart/?symbol=MLNK) | MeridianLink, Inc. | MLNK |
+| 19 | 92 | $21.45 | [Chart](https://www.tradingview.com/chart/?symbol=TUA) | Simplify Short Term Treasury Futures Strategy ETF | TUA |
+| 12 | 91 | $10.31 | [Chart](https://www.tradingview.com/chart/?symbol=SONO) | Sonos, Inc. Common Stock | SONO |
+| 15 | 91 | $10.41 | [Chart](https://www.tradingview.com/chart/?symbol=ACIC) | American Coastal Insurance Corporation Common Stock | ACIC |
+| 21 | 91 | $37.16 | [Chart](https://www.tradingview.com/chart/?symbol=PBA) | PEMBINA PIPELINE CORPORATION | PBA |
 | 15 | 90 | $12.19 | [Chart](https://www.tradingview.com/chart/?symbol=WSR) | Whitestone REIT | WSR |
-| 20 | 90 | $12.56 | [Chart](https://www.tradingview.com/chart/?symbol=ZYME) | Zymeworks Inc. | ZYME |
-| 21 | 87 | $15.65 | [Chart](https://www.tradingview.com/chart/?symbol=HQH) | abrdn Healthcare Investors | HQH |
-| 21 | 87 | $37.19 | [Chart](https://www.tradingview.com/chart/?symbol=PBA) | PEMBINA PIPELINE CORPORATION | PBA |
-| 22 | 86 | $11.65 | [Chart](https://www.tradingview.com/chart/?symbol=NVG) | Nuveen AMT-Free Municipal Credit Income Fund | NVG |
-| 20 | 85 | $22.10 | [Chart](https://www.tradingview.com/chart/?symbol=CURB) | Curbline Properties Corp. | CURB |
+| 15 | 90 | $13.15 | [Chart](https://www.tradingview.com/chart/?symbol=GOOD) | Gladstone Commercial Corporation - REIT | GOOD |
+| 20 | 90 | $18.40 | [Chart](https://www.tradingview.com/chart/?symbol=VSCO) | Victorias Secret & Co. | VSCO |
+| 12 | 89 | $223.53 | [Chart](https://www.tradingview.com/chart/?symbol=WDAY) | Workday, Inc. Class A Common Stock | WDAY |
+| 13 | 89 | $41.85 | [Chart](https://www.tradingview.com/chart/?symbol=BILL) | BILL Holdings, Inc. | BILL |
+| 20 | 89 | $31.49 | [Chart](https://www.tradingview.com/chart/?symbol=DAR) | DARLING INGREDIENTS INC. | DAR |
+| 21 | 89 | $12.56 | [Chart](https://www.tradingview.com/chart/?symbol=ZYME) | Zymeworks Inc. | ZYME |
+| 16 | 88 | $97.20 | [Chart](https://www.tradingview.com/chart/?symbol=AFL) | Aflac Inc. | AFL |
+| 23 | 87 | $11.69 | [Chart](https://www.tradingview.com/chart/?symbol=NVG) | Nuveen AMT-Free Municipal Credit Income Fund | NVG |
+| 16 | 86 | $29.69 | [Chart](https://www.tradingview.com/chart/?symbol=KVYO) | Klaviyo, Inc. | KVYO |
+| 21 | 86 | $24.96 | [Chart](https://www.tradingview.com/chart/?symbol=WY) | Weyerhaeuser Company | WY |
+| 22 | 86 | $15.65 | [Chart](https://www.tradingview.com/chart/?symbol=HQH) | abrdn Healthcare Investors | HQH |
+| 23 | 86 | $10.01 | [Chart](https://www.tradingview.com/chart/?symbol=NMZ) | Nuveen Municipal High Income Opportunity Fund | NMZ |
+| 23 | 85 | $287.54 | [Chart](https://www.tradingview.com/chart/?symbol=UTHR) | United Therapeutics Corp | UTHR |
 | 23 | 85 | $87.34 | [Chart](https://www.tradingview.com/chart/?symbol=BCO) | The Brink's Company | BCO |
-| 24 | 83 | $11.70 | [Chart](https://www.tradingview.com/chart/?symbol=NZF) | Nuveen Municipal Credit Income Fund | NZF |
-| 25 | 83 | $15.36 | [Chart](https://www.tradingview.com/chart/?symbol=HR) | Healthcare Realty Trust Incorporated | HR |
+| 24 | 85 | $11.78 | [Chart](https://www.tradingview.com/chart/?symbol=NZF) | Nuveen Municipal Credit Income Fund | NZF |
+| 16 | 84 | $252.22 | [Chart](https://www.tradingview.com/chart/?symbol=CRM) | Salesforce, Inc. | CRM |
+| 21 | 84 | $22.10 | [Chart](https://www.tradingview.com/chart/?symbol=CURB) | Curbline Properties Corp. | CURB |
+| 22 | 84 | $11.22 | [Chart](https://www.tradingview.com/chart/?symbol=ROIV) | Roivant Sciences Ltd. Common Shares | ROIV |
+| 33 | 83 | $16.67 | [Chart](https://www.tradingview.com/chart/?symbol=SVOL) | Simplify Volatility Premium ETF | SVOL |
+| 21 | 82 | $78.19 | [Chart](https://www.tradingview.com/chart/?symbol=OKE) | Oneok, Inc. | OKE |
+| 21 | 82 | $73.30 | [Chart](https://www.tradingview.com/chart/?symbol=MET) | MetLife, Inc. | MET |
 | 26 | 82 | $140.37 | [Chart](https://www.tradingview.com/chart/?symbol=DVA) | DaVita Inc. | DVA |
-| 26 | 82 | $10.07 | [Chart](https://www.tradingview.com/chart/?symbol=NMZ) | Nuveen Municipal High Income Opportunity Fund | NMZ |
-| 21 | 80 | $187.30 | [Chart](https://www.tradingview.com/chart/?symbol=AIZ) | Assurant, Inc. | AIZ |
-| 25 | 80 | $12.63 | [Chart](https://www.tradingview.com/chart/?symbol=PCN) | PIMCO Corporate & Income Strategy Fund | PCN |
-| 24 | 79 | $12.22 | [Chart](https://www.tradingview.com/chart/?symbol=NU) | Nu Holdings Ltd. | NU |
+| 19 | 81 | $60.27 | [Chart](https://www.tradingview.com/chart/?symbol=UL) | Unilever plc | UL |
+| 22 | 81 | $135.15 | [Chart](https://www.tradingview.com/chart/?symbol=ROST) | Ross Stores Inc | ROST |
+| 23 | 81 | $152.08 | [Chart](https://www.tradingview.com/chart/?symbol=NICE) | NICE Ltd | NICE |
+| 24 | 81 | $99.88 | [Chart](https://www.tradingview.com/chart/?symbol=PRU) | Prudential Financial, Inc. | PRU |
+| 25 | 80 | $44.70 | [Chart](https://www.tradingview.com/chart/?symbol=EPI) | WisdomTree India Earnings Fund ETF | EPI |
+| 29 | 80 | $59.80 | [Chart](https://www.tradingview.com/chart/?symbol=FTSM) | First Trust Enhanced Short Maturity ETF | FTSM |
+| 22 | 79 | $187.30 | [Chart](https://www.tradingview.com/chart/?symbol=AIZ) | Assurant, Inc. | AIZ |
+| 26 | 79 | $12.63 | [Chart](https://www.tradingview.com/chart/?symbol=PCN) | PIMCO Corporate & Income Strategy Fund | PCN |
 | 29 | 79 | $10.38 | [Chart](https://www.tradingview.com/chart/?symbol=MYI) | BLACKROCK MUNIYIELD QUALITY FUND III, INC. | MYI |
-| 30 | 79 | $59.80 | [Chart](https://www.tradingview.com/chart/?symbol=FTSM) | First Trust Enhanced Short Maturity ETF | FTSM |
-| 31 | 79 | $18.80 | [Chart](https://www.tradingview.com/chart/?symbol=VSCO) | Victorias Secret & Co. | VSCO |
-| 37 | 78 | $16.84 | [Chart](https://www.tradingview.com/chart/?symbol=SVOL) | Simplify Volatility Premium ETF | SVOL |
-| 25 | 77 | $44.75 | [Chart](https://www.tradingview.com/chart/?symbol=EPI) | WisdomTree India Earnings Fund ETF | EPI |
-| 32 | 77 | $16.14 | [Chart](https://www.tradingview.com/chart/?symbol=XP) | XP Inc. Class A Common Stock | XP |
-| 25 | 76 | $10.32 | [Chart](https://www.tradingview.com/chart/?symbol=BRKL) | Brookline Bancorp Inc | BRKL |
-| 31 | 76 | $223.57 | [Chart](https://www.tradingview.com/chart/?symbol=LOW) | Lowe's Companies Inc. | LOW |
-| 31 | 73 | $50.14 | [Chart](https://www.tradingview.com/chart/?symbol=GSY) | Invesco Ultra Short Duration ETF | GSY |
+| 25 | 78 | $56.30 | [Chart](https://www.tradingview.com/chart/?symbol=O) | Realty Income Corporation | O |
+| 32 | 78 | $76.88 | [Chart](https://www.tradingview.com/chart/?symbol=GPN) | Global Payments, Inc. | GPN |
+| 32 | 78 | $100.27 | [Chart](https://www.tradingview.com/chart/?symbol=MINT) | PIMCO Enhanced Short Maturity Active Exchange-Traded Fund | MINT |
+| 24 | 77 | $86.31 | [Chart](https://www.tradingview.com/chart/?symbol=BIDU) | Baidu, Inc. | BIDU |
+| 27 | 77 | $14.42 | [Chart](https://www.tradingview.com/chart/?symbol=RYLD) | Global X Russell 2000 Covered Call ETF | RYLD |
+| 28 | 77 | $12.29 | [Chart](https://www.tradingview.com/chart/?symbol=NU) | Nu Holdings Ltd. | NU |
+| 36 | 76 | $20.91 | [Chart](https://www.tradingview.com/chart/?symbol=BKLN) | Invesco Senior Loan ETF | BKLN |
+| 26 | 75 | $10.32 | [Chart](https://www.tradingview.com/chart/?symbol=BRKL) | Brookline Bancorp Inc | BRKL |
+| 32 | 74 | $47.42 | [Chart](https://www.tradingview.com/chart/?symbol=SPHD) | Invesco S&P 500 High Dividend Low Volatility ETF | SPHD |
+| 32 | 73 | $17.44 | [Chart](https://www.tradingview.com/chart/?symbol=STR) | Sitio Royalties Corp. | STR |
 | 33 | 73 | $12.27 | [Chart](https://www.tradingview.com/chart/?symbol=RQI) | COHEN & STEERS QUALITY INCOME REALTY FUND, INC. COMMON SHARES | RQI |
-| 31 | 72 | $156.05 | [Chart](https://www.tradingview.com/chart/?symbol=NICE) | NICE Ltd | NICE |
-| 33 | 72 | $47.69 | [Chart](https://www.tradingview.com/chart/?symbol=SPHD) | Invesco S&P 500 High Dividend Low Volatility ETF | SPHD |
-| 33 | 71 | $32.38 | [Chart](https://www.tradingview.com/chart/?symbol=DAR) | DARLING INGREDIENTS INC. | DAR |
-| 39 | 70 | $23.49 | [Chart](https://www.tradingview.com/chart/?symbol=EWM) | iShares MSCI Malaysia ETF | EWM |
+| 34 | 72 | $78.19 | [Chart](https://www.tradingview.com/chart/?symbol=FIS) | Fidelity National Information Services, Inc. | FIS |
+| 30 | 71 | $99.86 | [Chart](https://www.tradingview.com/chart/?symbol=GBIL) | Goldman Sachs Access Treasury 0-1 Year ETF | GBIL |
+| 33 | 71 | $89.06 | [Chart](https://www.tradingview.com/chart/?symbol=VNQ) | Vanguard Real Estate ETF | VNQ |
+| 38 | 71 | $36.53 | [Chart](https://www.tradingview.com/chart/?symbol=HYLB) | Xtrackers USD High Yield Corporate Bond ETF | HYLB |
+| 33 | 69 | $25.54 | [Chart](https://www.tradingview.com/chart/?symbol=WKC) | World Kinect Corporation | WKC |
 | 34 | 69 | $45.92 | [Chart](https://www.tradingview.com/chart/?symbol=FTSL) | First Trust Senior Loan Fund ETF | FTSL |
-| 34 | 68 | $79.41 | [Chart](https://www.tradingview.com/chart/?symbol=FIS) | Fidelity National Information Services, Inc. | FIS |
-| 36 | 68 | $14.69 | [Chart](https://www.tradingview.com/chart/?symbol=RYLD) | Global X Russell 2000 Covered Call ETF | RYLD |
-| 37 | 68 | $54.63 | [Chart](https://www.tradingview.com/chart/?symbol=ALRM) | Alarm.com Holdings, Inc. | ALRM |
-| 34 | 67 | $75.95 | [Chart](https://www.tradingview.com/chart/?symbol=MET) | MetLife, Inc. | MET |
-| 38 | 66 | $42.75 | [Chart](https://www.tradingview.com/chart/?symbol=SPYD) | SPDR Portfolio S&P 500 High Dividend ETF | SPYD |
-| 39 | 64 | $44.93 | [Chart](https://www.tradingview.com/chart/?symbol=FVD) | First Trust Value Line Dividend Fund | FVD |
-| 38 | 62 | $31.10 | [Chart](https://www.tradingview.com/chart/?symbol=KVYO) | Klaviyo, Inc. | KVYO |
+| 36 | 69 | $42.29 | [Chart](https://www.tradingview.com/chart/?symbol=SPYD) | SPDR Portfolio S&P 500 High Dividend ETF | SPYD |
+| 35 | 67 | $13.99 | [Chart](https://www.tradingview.com/chart/?symbol=OBDC) | Blue Owl Capital Corporation | OBDC |
+| 37 | 67 | $16.59 | [Chart](https://www.tradingview.com/chart/?symbol=QYLD) | Global X Funds Global X NASDAQ-100 Covered Call ETF | QYLD |
+| 38 | 67 | $23.55 | [Chart](https://www.tradingview.com/chart/?symbol=SPHY) | SPDR Portfolio High Yield Bond ETF | SPHY |
+| 37 | 66 | $161.03 | [Chart](https://www.tradingview.com/chart/?symbol=SPG) | Simon Property Group, Inc. | SPG |
+| 39 | 66 | $54.63 | [Chart](https://www.tradingview.com/chart/?symbol=ALRM) | Alarm.com Holdings, Inc. | ALRM |
+| 39 | 65 | $37.14 | [Chart](https://www.tradingview.com/chart/?symbol=USHY) | iShares Broad USD High Yield Corporate Bond ETF | USHY |
+| 38 | 64 | $25.27 | [Chart](https://www.tradingview.com/chart/?symbol=SJNK) | SPDR Bloomberg Short Term High Yield Bond ETF | SJNK |
+| 38 | 63 | $42.77 | [Chart](https://www.tradingview.com/chart/?symbol=SHYG) | iShares 0-5 Year High Yield Corporate Bond ETF | SHYG |
 
 ## **Methodology**
 
